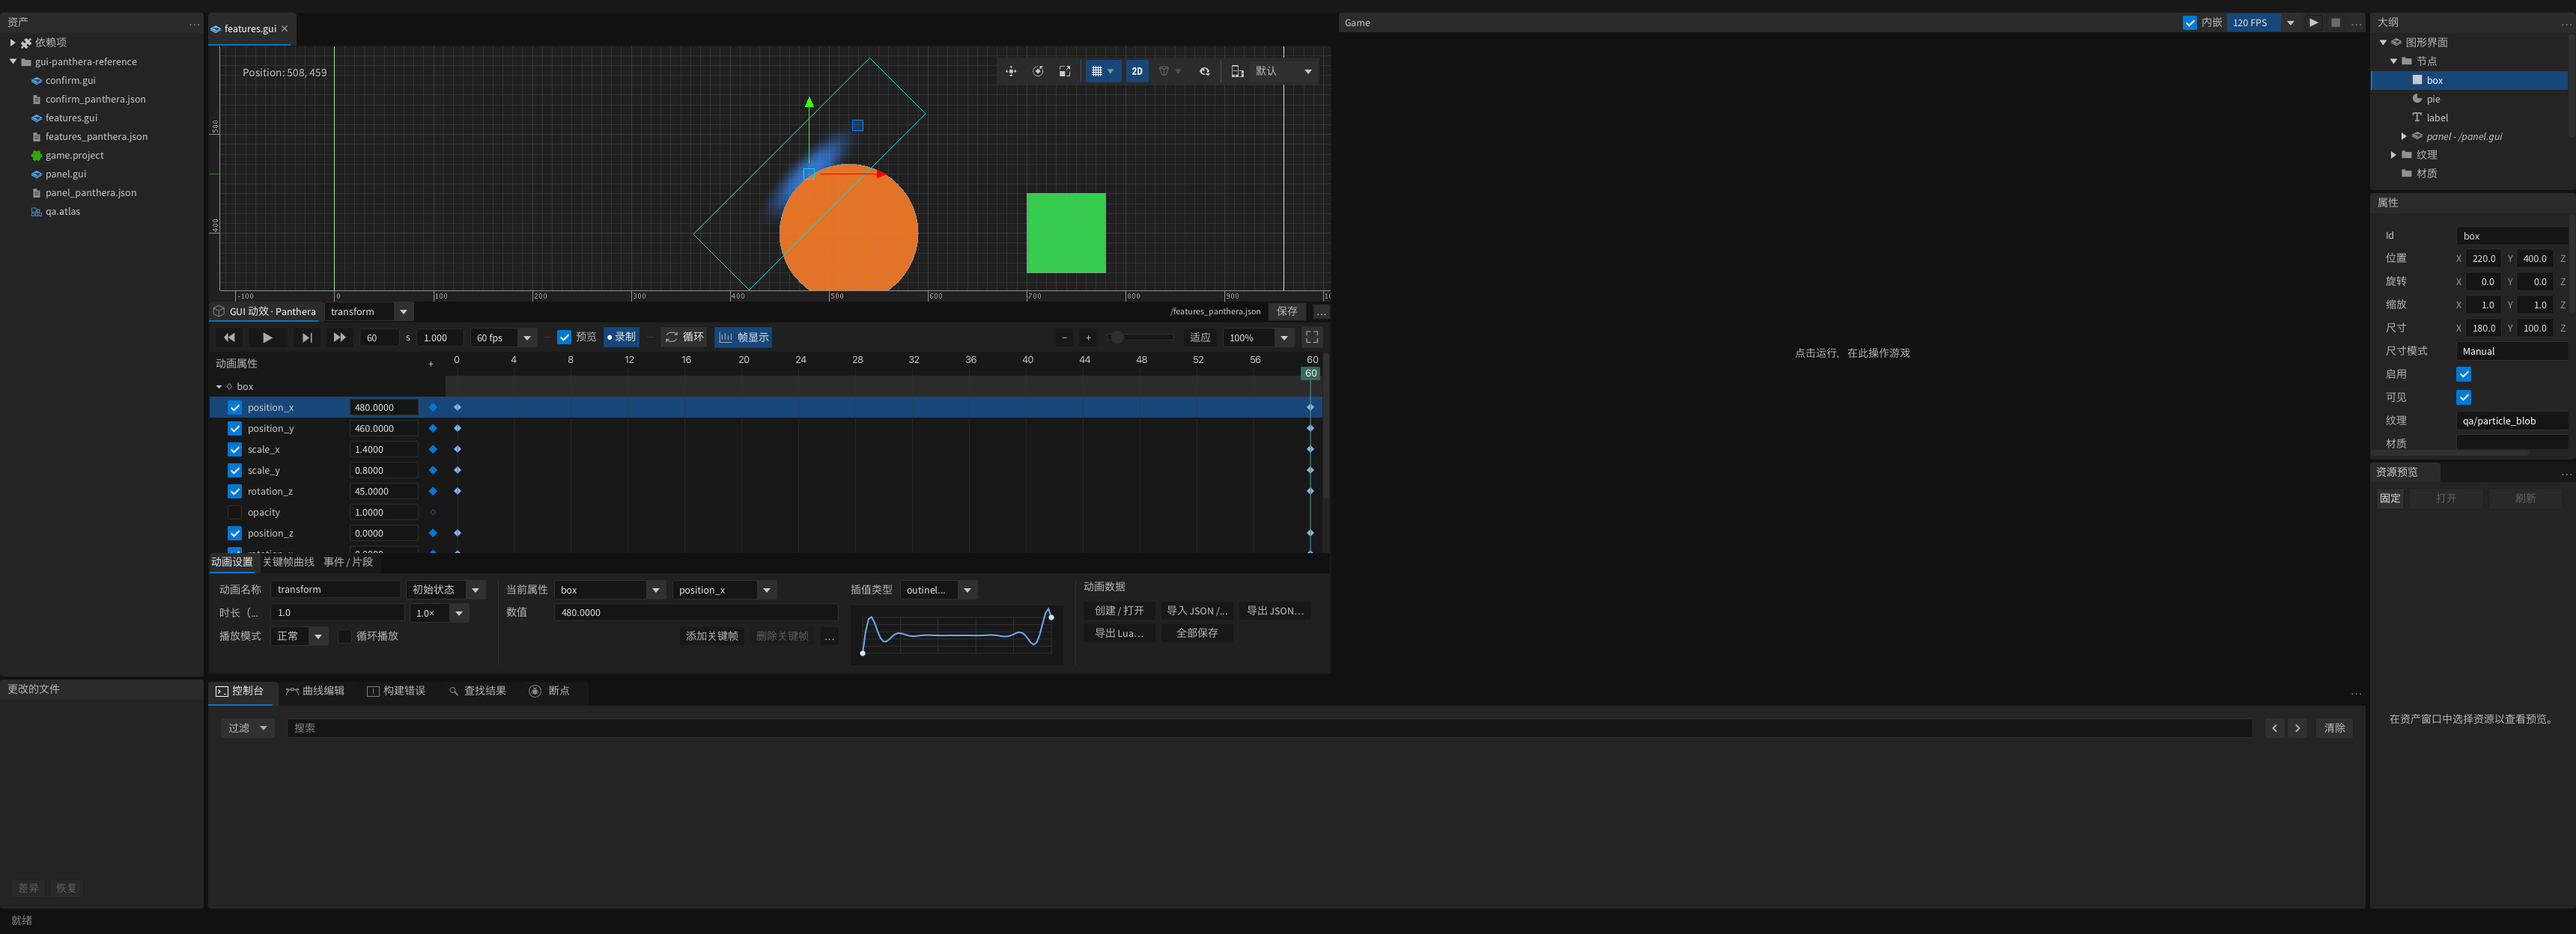
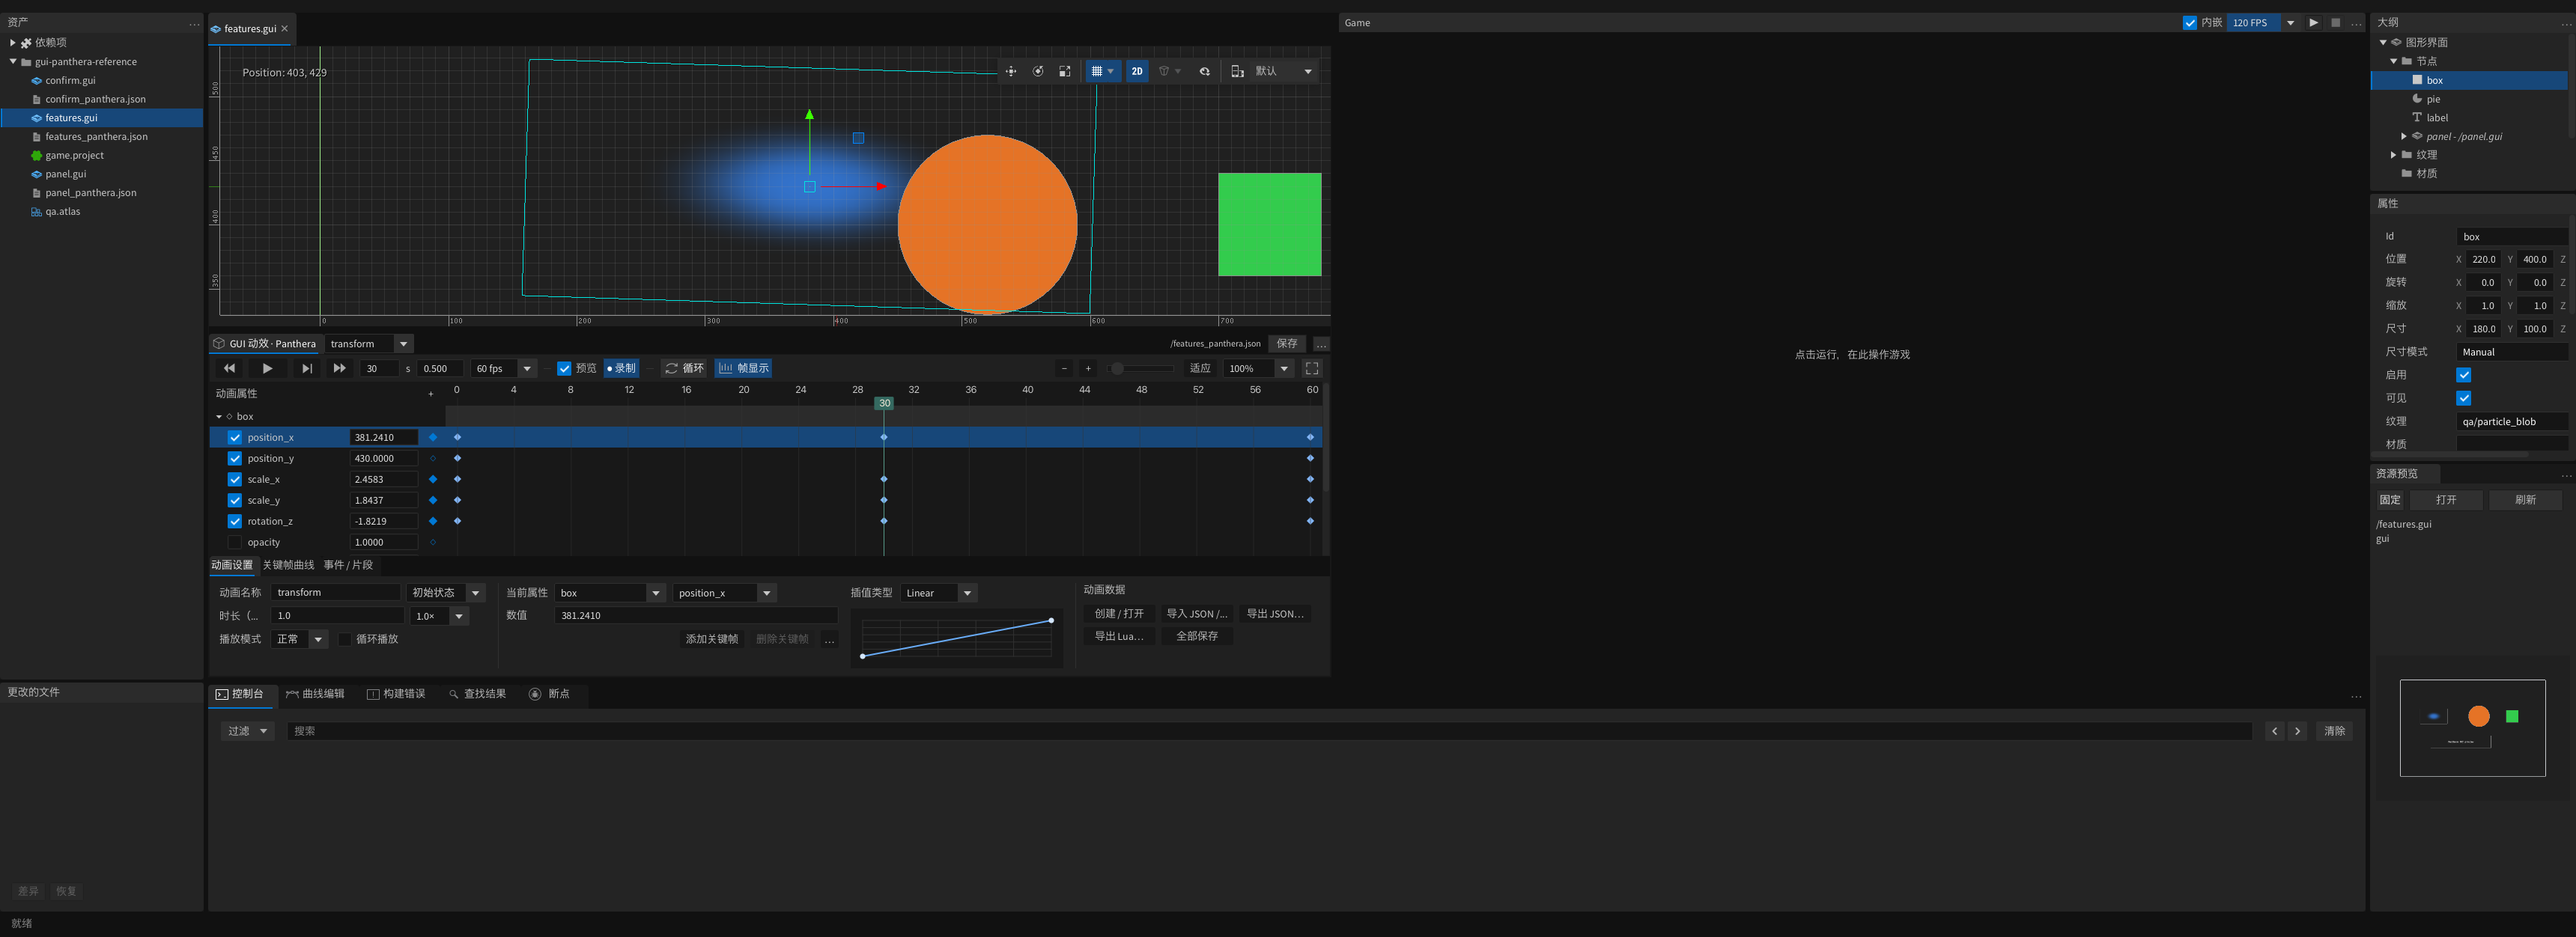
Initialize scene split before transform toolbar registration

diff --git a/editor/doc/gui-animation-validation/patch26/README.md b/editor/doc/gui-animation-validation/patch26/README.md
@@ -5,7 +5,7 @@
 - 完整 Clojure 回归：**88 项测试、4938 条断言，0 失败、0 错误**，见 [日志](clojure-tests.log)。
 - 增量更新 Python 回归：12 项测试通过，其中 3 项 Windows 专用测试在 macOS 跳过，见 [日志](patch-tests.log)。
 - 动效源码、单元测试和集成测试的 clj-kondo：0 错误、0 警告，见 [日志](clj-kondo.log)。全部修改的动效命名空间完成整文件重载，没有新增反射或装箱警告。
-- **101 项实际运行时检查全部通过**，见 [机器可读结果](ui-results.json)。下面的 PNG 均来自实际界面。
+- **104 项实际运行时检查全部通过**，见 [机器可读结果](ui-results.json)。下面的 PNG 均来自实际界面。
 
 ## 功能与证据
 
@@ -21,7 +21,7 @@
 | 15 种离散触发属性 | [可见性编辑](17-trigger-visibility.png)、[场景触发效果](25-discrete-properties.png)，集成测试逐项检查图属性且不污染原始 GUI |
 | 嵌套动画、模板动画、开始时间优先级 | [嵌套](18-nested-animation.png)、[模板](26-template-animation.png)，另测边界、初始姿态、可达依赖、循环/深度保护 |
 | 原始片段、仅编辑器标记、重叠片段不展平 | [原始片段](19-raw-tween-editor-only.png)、[重叠](27-overlap-segments.png)、[连续微调和粘贴](41-raw-batch-nudge-paste.png) |
-| 小窗口、场景高度、原生分隔条、设置可达性 | [小窗口保留场景并拖动分隔](45-small-window-resizable-scene.png)、[滚动到设置](46-small-window-settings-scroll.png)，另验证展开播放和恢复分隔位置 |
+| 小窗口、场景高度、原生分隔条、设置可达性 | [小窗口保留场景并拖动分隔](45-small-window-resizable-scene.png)、[滚动到设置](46-small-window-settings-scroll.png)，另验证展开播放和恢复分隔位置；首帧前初始化原生分隔皮肤，保证场景工具栏完成注册 |
 | 全部 32 个数值通道 | [变换](21-transform-preview.png)、[尺寸/颜色/九宫格](22-size-color-slice9.png)、[文本/描边/阴影](23-text-outline-shadow.png)、[饼图](24-pie-properties.png)；逐通道实时预览及图属性集成测试 |
 | 时长延长、中键平移、适应缩放 | [延长](28-duration-extends-timeline.png)、[中键](29-middle-mouse-pan.png)、[适应](30-fit-timeline.png)；断言平移不修改播放头和 JSON |
 | 正放、倒放、倍速、往返循环、帧/秒标尺 | [倒放倍速](31-reverse-playback-speed.png)、[循环](32-ping-pong-loop.png)、[秒标尺](33-seconds-ruler.png)，等待实际播放时间变化 |
